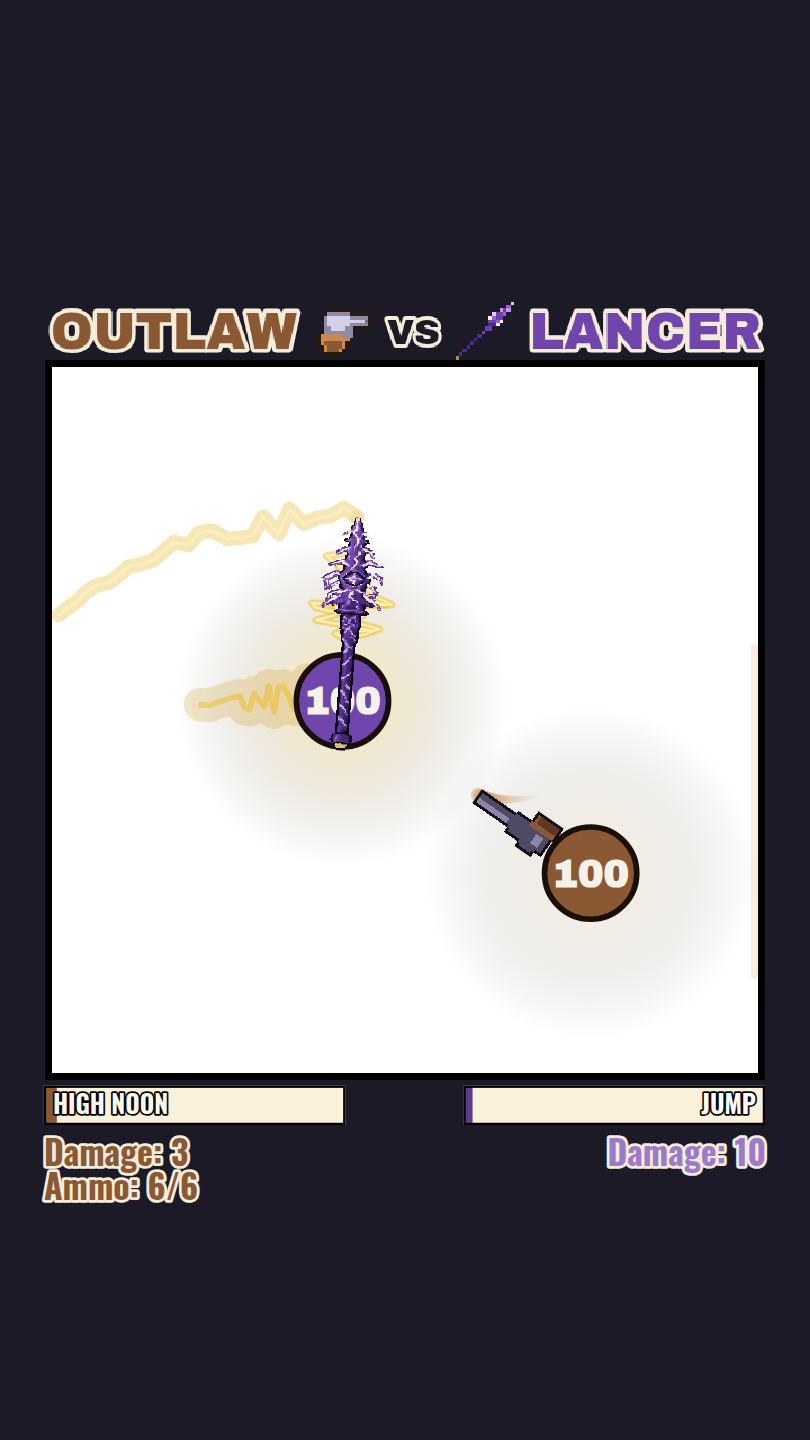
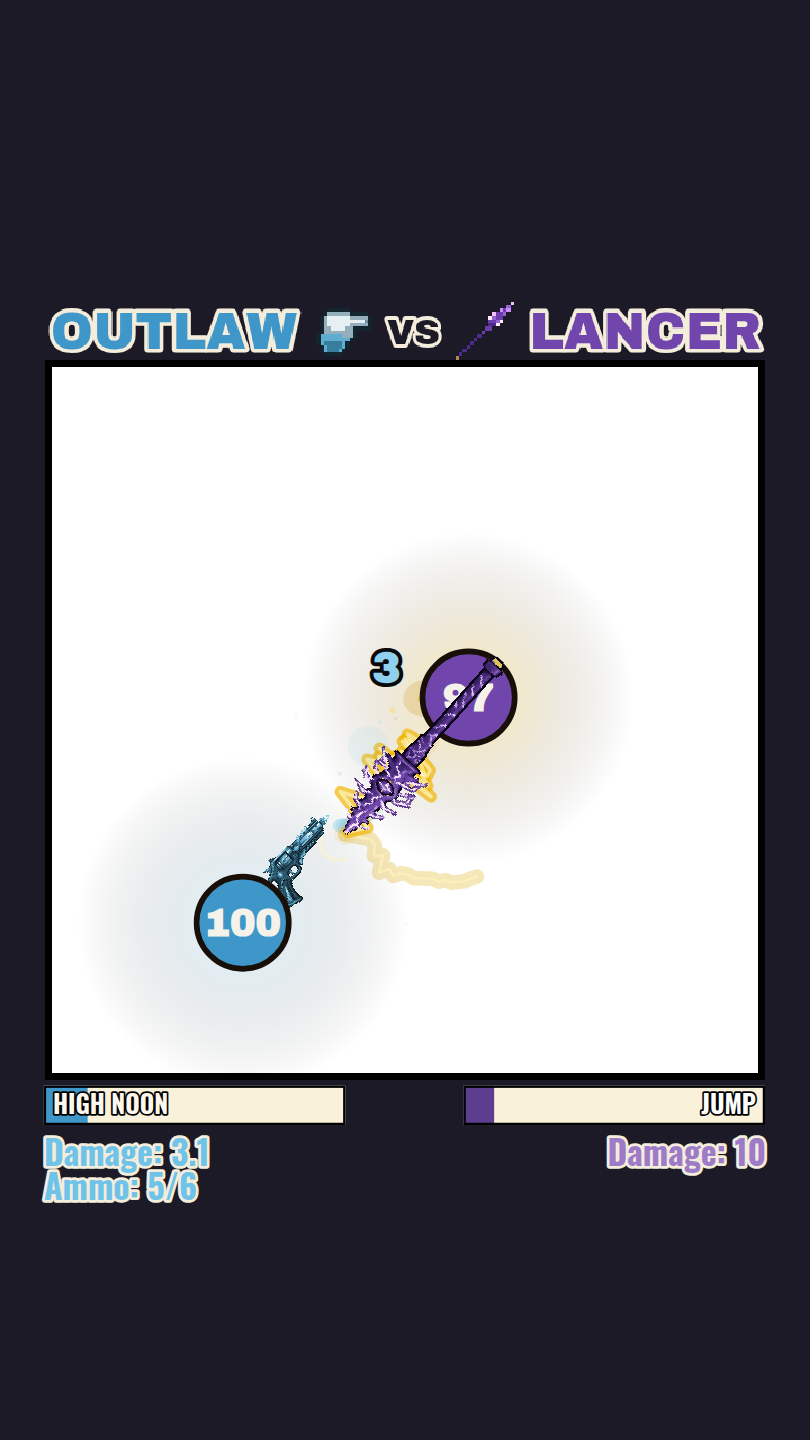
Hors-la-loi : gel plus fort et munition ×1,5 — Lancier : plus lent, verrouillage plus long, ancrage latéral restauré
Une régression de ma part en tête, parce que c'est elle qui a motivé un outil.

L'ancrage latéral du Lancier avait disparu

L'arme ne se décalait plus sur le flanc, et ce n'était pas un réglage à
retoucher : **l'écriture de `weaponLateral` avait été perdue** dans la
réécriture de la machine d'états pour la charge jusqu'au mur. `lunge.lateral`
était resté dans la fiche sans que personne ne le lise. Aucune erreur, aucun
test rouge : l'arme cessait simplement de se décaler.

Restauré, et binaire comme avant : `seek` et `recover` à 36 px sur le flanc,
`brace` et `dash` à zéro, centré. Vérifié en instrumentant le duel plutôt qu'à
l'œil — la première mesure enregistrait la *première* occurrence de chaque
phase, donc la valeur de l'image précédente, et donnait des chiffres inversés ;
en médiane sur 400 échantillons : seek 36, brace 0, dash 0, recover 36.

Un garde-fou, parce que c'est la deuxième fois

`tools/fiche-check.mjs` recoupe les clés de `weapon.lunge` et ce que le module
lit, dans les deux sens : une clé lue mais absente de la fiche (le cas
`recoil`/`hitRing`, qui donnait NaN à la première touche) et une clé présente
mais jamais lue (le cas `lateral`, qui ne plante jamais). Il ne couvre que ce
bloc, et c'est délibéré : `ability` a été essayé et criait à tort dix-neuf
fois — `id` et `name` sont lus par l'interface, `cooldownStep` par `match.js`,
et `f.ability.timer` est de l'état d'exécution. Un garde-fou qui crie à tort
n'est plus lu.

Les cinq réglages demandés
[…]

diff --git a/src/data/elements.js b/src/data/elements.js
@@ -1481,7 +1481,10 @@ const OUTLAW = {
       label: 'Balle de glace',
       labelRef: 'Ice Bullet',
       sprite: 'outlawShot',
-      scale: 1, // carte 30 × 9 : 30 × 9 px dessinés, comme les 28,8 × 9,6 d'avant
+      /** ×1,5 sur l'ancienne taille : carte 30 × 9 dessinée 45 × 13,5. La
+       *  collision ne suit pas — `radius: 8` ne dépend pas du sprite — donc
+       *  c'est un grossissement purement visuel. */
+      scale: 1.5,
       /** Calé : à 30 fps la vidéo ne montre que le sillage, jamais la balle.
        *  720 px/s laisse à l'adversaire de quoi sortir de la ligne de tir —
        *  c'est l'autre moitié de la précision relevée, avec la dispersion. */
@@ -1506,7 +1509,7 @@ const OUTLAW = {
        *
        * `stackGain` reste **mesuré** : +0,10 par balle au but.
        */
-      onHit: { stackGain: 0.1, stackMax: 8, slow: 0.3, slowDuration: 1.6 },
+      onHit: { stackGain: 0.1, stackMax: 8, slow: 0.5, slowDuration: 1.6 },
     },
   },
 
@@ -1912,7 +1915,7 @@ const LANCER = {
    * propres charges. C'est ce qui distingue ce personnage des dix autres, qui
    * pilotent tous vers leur cible.
    */
-  movement: { speed: 522, turnRate: 1.85, seek: 0, mass: 1 },
+  movement: { speed: 430, turnRate: 1.85, seek: 0, mass: 1 },
 
   weapon: {
     name: 'Lance électrique',
@@ -1987,7 +1990,7 @@ const LANCER = {
        * longue. Le moulinet a disparu : le balayage de `seek` le remplace,
        * l'arme tourne déjà en permanence.
        */
-      brace: 0.04,
+      brace: 0.18,
       /**
        * Garde-fou de durée de charge. La charge s'arrête normalement **au mur**
        * (`Fighter.wall`) ; ce plafond n'existe que pour qu'une charge lancée le

diff --git a/src/game/abilities/lancer.js b/src/game/abilities/lancer.js
@@ -192,6 +192,24 @@ export const lancerAbilities = {
     }
 
     /**
+     * **Ancrage latéral, binaire.** Hors charge la lance est portée **sur le
+     * flanc** ; dès le verrouillage elle **saute** au centre du corps et y
+     * reste pendant toute la charge.
+     *
+     * Relevé : distance signée du centre de la bille à l'axe de la lance —
+     * +20 px vidéo au repos, +38 en croisière, **+1 en pleine charge**.
+     *
+     * Posé, jamais interpolé. Un rapprochement borné en vitesse, si rapide
+     * soit-il, fait *glisser* l'arme pendant la charge : elle court après la
+     * bille au lieu de former un bloc avec elle. Le saut est ce qu'on veut voir.
+     *
+     * `weaponPivot()` est lu par `drawWeapon()` **et** par `bladeSegment()` :
+     * le décalage bouge donc le dessin et la hitbox ensemble, jamais l'un sans
+     * l'autre.
+     */
+    f.weaponLateral = f.state.phase === 'brace' || f.state.phase === 'dash' ? 0 : L.lateral;
+
+    /**
      * **La lance ne blesse qu'en charge.** Hors charge elle est *portée*, pas
      * poussée : le verrou de touche est retenu à chaque pas, et seule la phase
      * `dash` le laisse courir.

diff --git a/CLAUDE.md b/CLAUDE.md
@@ -385,14 +385,12 @@ sans que ça se voie.
      balaie 3-0 et elle tombe à 12, à 240 il n'en prend que deux et elle
      revient. Ces 20 px de fenêtre coûtent 0,13 PV/s de fidélité (2,53 contre
      2,40) — la bande passe avant, c'est un invariant.
-   - **Le Hors-la-loi est tombé à 9/30 en passant au type glace**, et la cause
-     n'est pas le gel : c'est le **tour de rechargement**. Pendant 1,4 s l'arme
-     n'est plus asservie à la cible, donc le bout du canon — qui porte la
-     hitbox de mêlée (`hitbox.from: 0,62`) — balaie au lieu de pointer. Il perd
-     ses touches de contact sur toute la recharge, et le ralentissement ne
-     compense pas : cinq affrontements ont basculé, aucun dans l'autre sens.
-     C'est le coût assumé d'un effet demandé ; les leviers si on veut le
-     rattraper sont `projectiles.shot.onHit.slow` et `ability.reload`.
+   - **Le tour de rechargement du Hors-la-loi lui coûte ses touches de mêlée.**
+     Pendant 1,4 s l'arme n'est plus asservie, or le bout du canon porte la
+     hitbox de contact (`hitbox.from: 0,62`) : il balaie au lieu de pointer. Le
+     personnage était tombé de 15 à **9/30** en gagnant l'effet. Porter le gel
+     de 0,30 à **0,50** l'a ramené à **16/30** — plus que compensé, donc, et
+     c'est le levier à retenir : `projectiles.shot.onHit.slow`.
    - **Le Lancier est à 30/30 — il gagne tous ses duels.** C'est le piège de
      l'arme braquée dans sa forme la plus pure : une charge qui traverse toute
      l'arène, contre dix adversaires qui pilotent vers lui et entrent donc dans
@@ -403,8 +401,8 @@ sans que ça se voie.
      0,506 à 0,439 coup/s. Les charges ne frôlent pas, elles traversent. Les
      vrais leviers sont la fréquence de balayage (`lunge.scanSpin`) et le
      retour à une charge de longueur bornée au lieu d'une traversée.
-   - Relevé courant : Lancier 30, Lumière 18, Hors-la-loi 15, Ombre 14,
-     Glace 14, Feu 14, Foudre 12, Vent 12, Plante 12, Bretteur 12, Eau 12.
+   - Relevé courant : Lancier 29, Lumière 18, Ombre 16, Hors-la-loi 16,
+     Glace 15, Plante 14, Feu 13, Vent 12, Foudre 11, Bretteur 11, Eau 10.
    - **Le recul symétrique a ramené le Lancier dans la bande tout seul**, de 19
      à 17, sans qu'aucun levier d'équilibrage ne soit touché : un attaquant
      repoussé aussi fort que sa cible met plus longtemps à revenir au contact.
@@ -438,14 +436,25 @@ sans que ça se voie.
    `render/flair.js` (six boucles), `physics.js`, `projectiles.js` et le rendu
    de `match.js`. Un oubli laisse un ruban, une nappe ou une hitbox fantôme au
    dernier point connu.
-8. **Un ancrage d'arme se pose, il ne s'interpole pas.** `weaponLateral`
+8. **Une clé de fiche que plus personne ne lit ne crie pas.** Deux régressions
+   du même type, toutes deux silencieuses : `lunge.recoil` et `lunge.hitRing`
+   supprimés alors que le module les lisait encore — `push(..., undefined)`
+   donnait NaN et la position partait en NaN dès la première touche ; puis
+   l'écriture de `weaponLateral` perdue dans une réécriture de la machine
+   d'états, `lunge.lateral` restant dans la fiche sans lecteur. Le premier cas
+   plante bruyamment, **le second jamais** : l'arme cesse simplement de se
+   décaler, sans erreur ni test rouge. `tools/fiche-check.mjs` recoupe
+   désormais les deux sens. Il ne couvre que `weapon.lunge`, et c'est
+   délibéré — `ability` a été essayé et criait à tort dix-neuf fois, or un
+   garde-fou qui crie à tort n'est plus lu.
+9. **Un ancrage d'arme se pose, il ne s'interpole pas.** `weaponLateral`
    bascule entre `lunge.lateral` et zéro **dans l'image même** où la phase
    change. La première version le rapprochait à vitesse bornée (420 px/s) pour
    éviter un saut : c'était une erreur de lecture, parce qu'une interpolation,
    si rapide soit-elle, fait *glisser* l'arme pendant la charge — donc elle
    court après la bille au lieu de former un bloc avec elle. Le saut est
    exactement ce qu'on veut voir.
-9. **Un décalage de dessin doit passer par le pivot, jamais par le seul
+10. **Un décalage de dessin doit passer par le pivot, jamais par le seul
    `translate`.** L'arme du Lancier est ancrée **sur le flanc** du corps
    (`Fighter.weaponLateral`, écrit par son module — encore un compteur
    générique : à zéro, les dix autres ne changent pas). `weaponPivot()` est lu
@@ -548,6 +557,10 @@ python3 -m http.server 8085 &            # requis par les outils Playwright
 
 node tools/matrix.mjs                    # 66 affrontements x 3 seeds, sans rendu
 node tools/matrix.mjs > /tmp/a.txt && diff tools/matrix-reference.txt /tmp/a.txt
+
+node tools/fiche-check.mjs               # garde-fou des fiches : chaque clé de
+                                         # `weapon.lunge` doit être lue par son
+                                         # module, et chaque lecture avoir sa clé
 
 node tools/lang-check.mjs                # garde-fou de la langue : les deux tables
                                          # de ui/lang.js doivent porter les mêmes clés,
